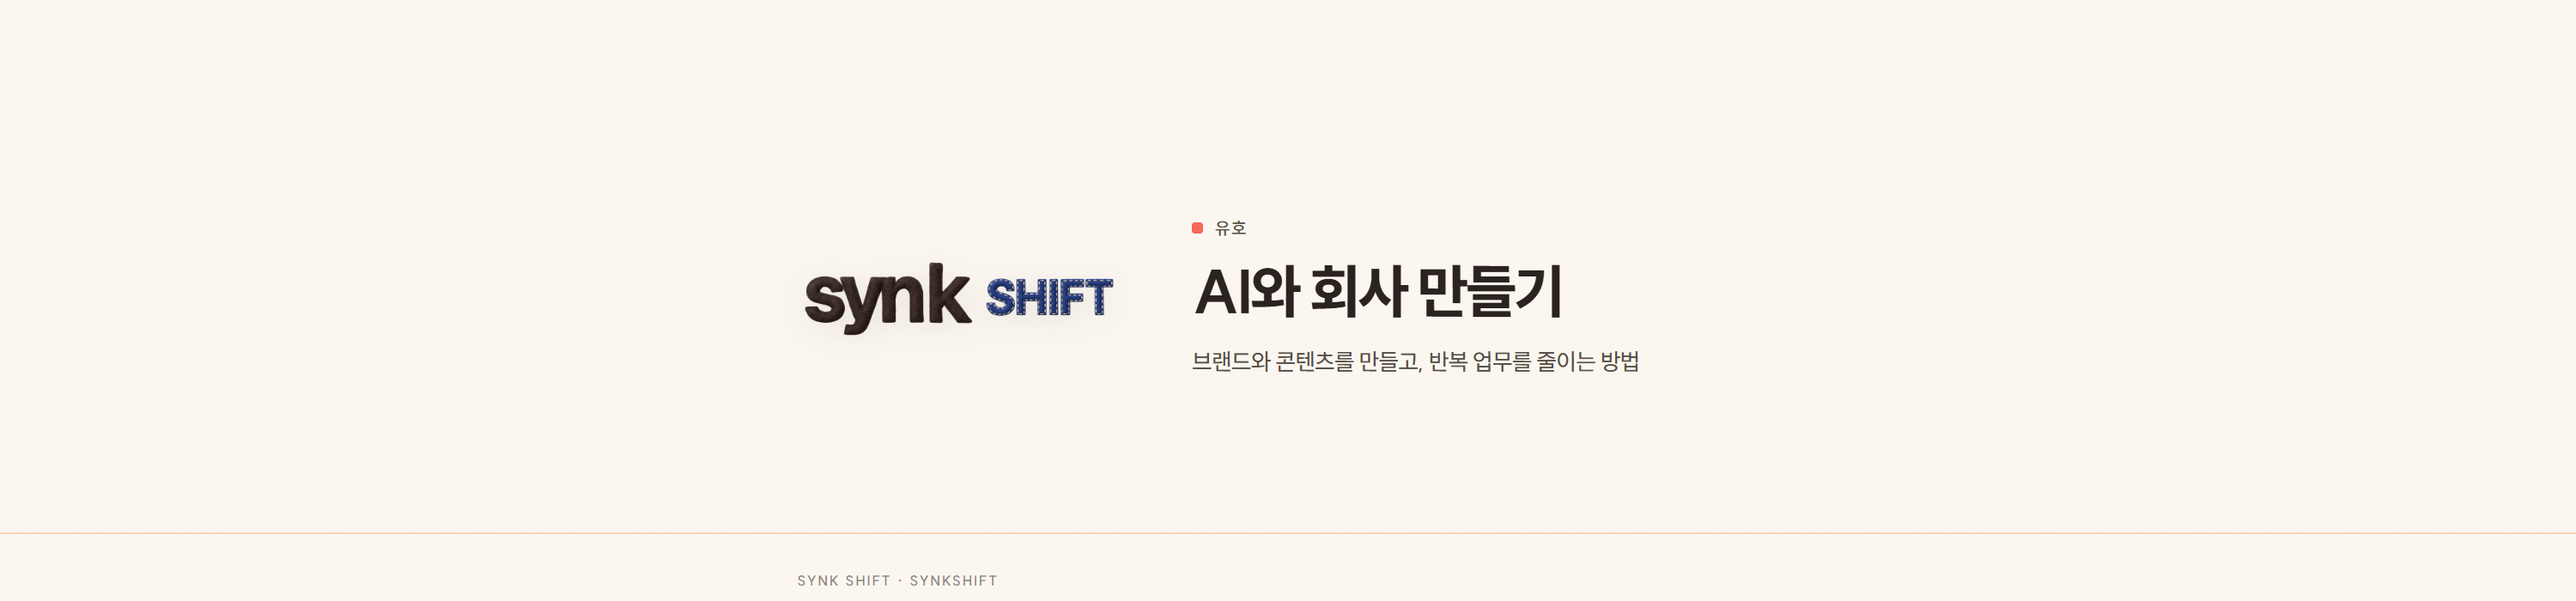
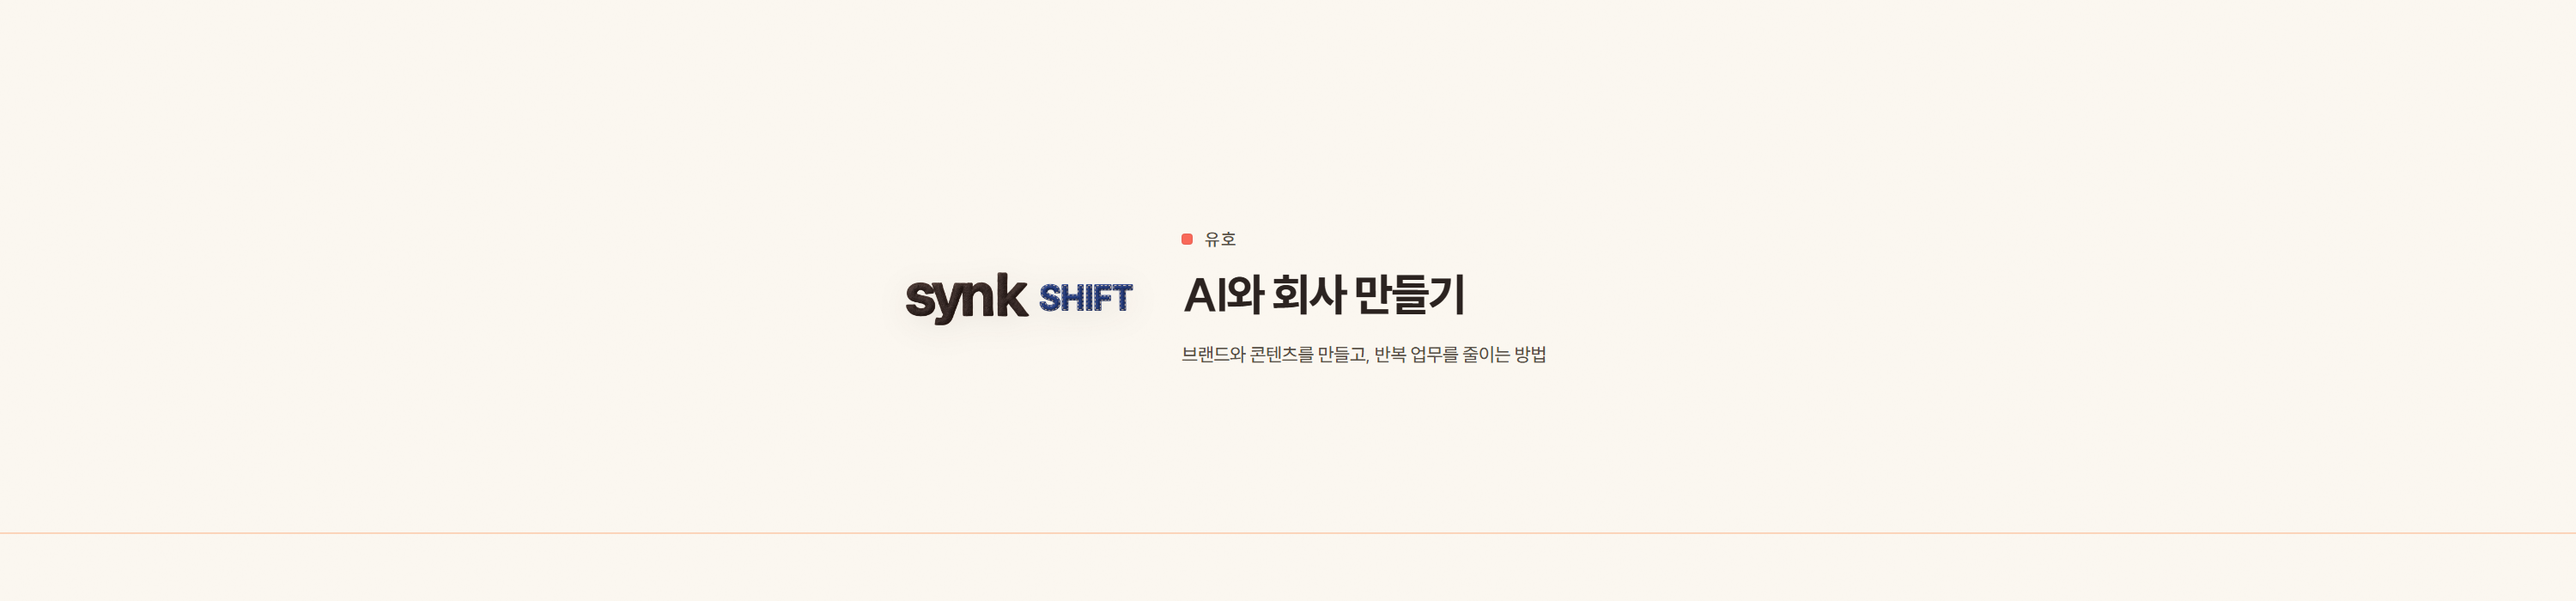
네이버 커버 잘림과 겹침을 고치고 2단 배치 공개 확인

diff --git a/tools/네이버스킨굽기.js b/tools/네이버스킨굽기.js
@@ -46,14 +46,13 @@ ${브랜드폰트.블록()}
   .paper{position:absolute;inset:0;background:#FBF7F0}
   .paper:before{content:"";position:absolute;inset:-10%;opacity:.19;filter:url(#wool)}
   .paper:after{content:"";position:absolute;left:0;right:0;bottom:78px;height:2px;background:#FBCAAB;opacity:.78}
-  .safe{position:relative;width:1180px;height:700px;margin:0 auto;display:grid;grid-template-columns:380px 1fr;gap:80px;align-items:center;padding:0 18px 44px}
-  .logo{width:380px;height:auto;display:block;filter:drop-shadow(0 8px 18px rgba(43,35,32,.09))}
+  .safe{position:relative;width:940px;height:700px;margin:0 auto;display:grid;grid-template-columns:280px 1fr;gap:48px;align-items:center;padding:0 18px 44px}
+  .logo{width:280px;height:auto;display:block;filter:drop-shadow(0 8px 18px rgba(43,35,32,.09))}
   .copy{min-width:0}
   .eyebrow{display:flex;align-items:center;gap:14px;margin:0 0 24px;font-size:20px;font-weight:600;letter-spacing:.08em;color:#575046}
   .signal{width:13px;height:13px;border-radius:4px;background:#F96859;box-shadow:inset 0 0 0 1px rgba(43,35,32,.08)}
-  h1{margin:0;font-size:68px;line-height:1.13;font-weight:800;letter-spacing:-.045em;text-wrap:balance}
-  p{margin:22px 0 0;font-size:27px;line-height:1.55;font-weight:500;letter-spacing:-.025em;color:#575046}
-  .meta{position:absolute;left:18px;bottom:34px;font-size:16px;font-weight:600;letter-spacing:.11em;color:#8D857A}
+  h1{margin:0;font-size:52px;line-height:1.13;font-weight:800;letter-spacing:-.045em;text-wrap:balance}
+  p{margin:22px 0 0;font-size:22px;line-height:1.55;font-weight:500;letter-spacing:-.025em;color:#575046;word-break:keep-all}
 </style></head>
 <body>
 <svg width="0" height="0" aria-hidden="true"><filter id="wool" x="-10%" y="-10%" width="120%" height="120%" color-interpolation-filters="sRGB">
@@ -68,7 +67,6 @@ ${브랜드폰트.블록()}
     <h1>AI와 회사 만들기</h1>
     <p>브랜드와 콘텐츠를 만들고, 반복 업무를 줄이는 방법</p>
   </section>
-  <div class="meta">SYNK SHIFT · SYNKSHIFT</div>
 </main>
 </body></html>`;
 }

diff --git a/docs/마케팅/계정단장_20260911_결과.md b/docs/마케팅/계정단장_20260911_결과.md
@@ -1,6 +1,6 @@
 # SNS 19계정 — 문구·디자인 실제 반영 결과
 
-> 2026-09-11 · 개인 Instagram **@1101yuh 제외**. **13계정에 하나 이상의 변경을 저장·확인했다. 19계정 전체 완료는 아니다.** 특히 Naver 커버 배치는 편집 확인창에서 중단되어 미완료다. 프로필 단장과 새 콘텐츠 발행·자동화 연결은 별개다. 이전 비교용 A안 대신 이 결과와 현재 계정 화면을 먼저 따른다.
+> 2026-09-11 · 개인 Instagram **@1101yuh 제외**. **13계정에 하나 이상의 변경을 저장·확인했다. 19계정 전체 완료는 아니다.** Naver 확인창 문제는 후속 작업에서 해결했고 커버·높이·2단 배치까지 공개 확인했다. 프로필 단장과 새 콘텐츠 발행·자동화 연결은 별개다. 이전 비교용 A안 대신 이 결과와 현재 계정 화면을 먼저 따른다.
 
 ## 표현 기준
 
@@ -13,6 +13,8 @@
 - **커버:** 한 줄 제목, 기존 승인 펠트·여백·서체 유지. SYNK 글자는 무실땀 중립색, 사업명 LAB·SHIFT는 고유색·실땀 유지.
 
 설명형 A와 짧은 이름·용도형 B를 비교해 합쳤고 SHIFT 최종 소개는 독립 사실·리스크 검수를 거쳤다. 비교안의 ‘공부할 때 켜두는 음악’은 기존 사용자 결정과 충돌해 폐기했다. 이는 사용자 만족이나 19계정 완료를 뜻하지 않는다.
+
+후속으로 커밋 `ea57be018`과 [비전 정본](../비전_정본.md)을 읽어 대조했다. 회사 소개의 대표 비전·서브텍스트는 그 원문을 따르며, 여기의 짧은 채널 제목·콘텐츠 안내를 회사 비전의 대체 문구로 사용하지 않는다. 이번 공개 프로필에 네 브랜드 비전 전문을 일괄 추가하지 않았다.
 
 ## 19계정 실제 상태
 
@@ -35,7 +37,7 @@
 | `yuhobuilds-linkedin` · [유호](https://www.linkedin.com/in/yuhobuilds/) | 헤드라인·상세 소개·**AI와 회사 만들기** 배경 저장·공개 시각 확인. 승인 얼굴 확인. 실명 양유호 유지 | 모바일 앱 미확인 |
 | `lab-telegram` · [SYNK LAB](https://t.me/synkmn) | 공개 학생 채널 소개 저장→Channel Info 동일 문구 확인. 몽글 확인 | 개인 연락 계정·메시지·학생 식별 정보는 변경하지 않음 |
 | `synklab-substack` · [발행물](https://synklab.substack.com/) | 이름·첫 소개·SHIFT 섹션 제목/설명·맞춤 홈페이지·Paper/Ink 색상 저장. 공개 이름·섹션 확인 | 별개의 **독자용 프로필 @synklab** 이름·소개는 제출 후 옛값으로 되돌아옴 |
-| `shift-naverblog` · [synkshift](https://blog.naver.com/synkshift) | 관리자 인증 복구. 이름 **유호 · AI와 회사 만들기**·새 소개·나눔스퀘어 19/180%/왼쪽 정렬·Ink 저장 성공 안내 확인. 새 스킨 이미지·Paper 하단색 공개 확인. 타이틀 사용 켜기·이웃커넥트 끄기 적용 후 공개 화면 확인 | **커버 배치 미완료.** 타이틀을 켰지만 기존 높이가 낮아 프로필과 이미지가 여전히 겹침. 2단 배치 변경 확인창에서 제어 연결이 다시 멈춤. 레이아웃·타이틀 높이·공개 화면 최종 검증 필요 |
+| `shift-naverblog` · [synkshift](https://blog.naver.com/synkshift) | 이름 **유호 · AI와 회사 만들기**·새 소개·나눔스퀘어 19/180%/왼쪽 정렬·Ink 저장. Paper 스킨·타이틀 높이 600·중복 제목 표시 끄기·이웃커넥트 끄기·왼쪽 프로필/오른쪽 본문 2단 배치 저장. 커버 안전 폭 940으로 보정해 공개 화면의 로고 잘림·프로필 겹침 해소 확인 | 모바일 앱·기본 메뉴와 위젯 서체 전체 미검수. 기존 `게시판` 분류와 기본 메뉴 유지. 첫 글 없음 |
 | `shift-kakao` · [SYNK SHIFT](https://pf.kakao.com/_kvlrX) | 기존 로그인 재사용·추가 본인 인증 요청 1회. **설정 변경 없음** | 카카오톡 추가 인증 만료. 인증 후 소개·커버·문의 문구 정비 |
 | `shift-tistory` · [유호 블로그](https://yuhobuilds.tistory.com/) | 이름·소개·슬로건·배너·푸터·4분류·어두운 프로필 카드 글자색/줄바꿈 저장·공개 확인. 공식 모바일 미리보기 확인. 승인 얼굴 확인 | 닉네임 ‘유호’ 사용 불가로 **유호 SYNK** 유지. 메뉴 `홈 / 작업 기록 / SYNK` 유지 |
 | `shift-pinterest` · [SYNK SHIFT](https://kr.pinterest.com/synkshift/) | 소개·**회사 일에 쓰는 AI** 커버 저장·공개 시각 확인. 펠트 도장 확인 | 링크는 실제 표시값 `http://youtube.com/@yuhobuilds` 유지. https 변경 성공으로 세지 않음 |
@@ -164,7 +166,6 @@ synk.im
 | 브리핑 TikTok | **SYNK 브리핑**, `회사 일에 쓰는 AI, 직접 써보고 알려드려요. / 소개글 · 이미지 · 영상 · 반복 업무 / youtube.com/@synkbrief`. 해당 계정 로그인 필요 |
 | 유호 Threads | 정확한 계정 확인 후 **유호 · AI와 회사 만들기**, `AI와 함께 회사를 만들고 있어요. / 오늘 해본 일과 막힌 문제, 고친 방법을 나눠요.` |
 | 브리핑 Threads | 정확한 계정 확인 후 **SYNK 브리핑**, `회사 일에 쓰는 AI, 직접 써보고 알려드려요. / 따라 해볼 방법을 짧게 나눕니다.` |
-| Naver | 이름·소개·본문 서체·타이틀 사용·이웃커넥트 끄기는 저장됨. 현재 ‘레이아웃을 변경하시겠습니까?’ 확인창 처리 후 2단 배치·헤더 높이를 조정해 이미지와 본문이 겹치지 않게 마무리. 이름/소개를 다시 입력하거나 재로그인을 먼저 요구하지 않음 |
 | Kakao | **SYNK SHIFT** 유지. 소개 `회사 일에 쓰는 AI, 직접 써본 방법과 자료를 나눠요.`. 추가 인증 후 자료·문의 안내·커버 실제 설정과 대조 |
 | Substack 독자 프로필 | 이름 **SYNK · 한국어와 AI**, `한국어를 배우고 가르치는 이야기와 AI로 내 일을 만드는 방법을 나눠요. LAB의 한국어 이야기와 유호의 AI 활용 이야기를 골라 읽어요.`. 발행물은 저장됐지만 이 프로필은 저장 불발 |
 
@@ -179,7 +180,7 @@ Instagram 외부 링크는 실제 웹 화면에 모바일 편집으로 안내된
 | LinkedIn | [yuhobuilds_링크드인.png](../SHIFT/배너/yuhobuilds_링크드인.png), 1584×396. 얼굴이 글자를 가리지 않는 위치 공개 확인 |
 | LAB YouTube | [synklab_배너.png](../SHIFT/배너/synklab_배너.png), 2560×1440. 승인본 업로드. SHA 앞자리 `4ea28ce16718` |
[3 lines of base64/hex data omitted]
 | LAB 프로필 | [synklab_프로필.png](../SHIFT/프로필/synklab_프로필.png), 1080×1080, SHA 앞자리 `5367016e3b95` |
 | 브리핑·SHIFT 프로필 | [synkbrief_펠트_프로필.png](../SHIFT/프로필/synkbrief_펠트_프로필.png), 1080×1080, SHA 앞자리 `e6d77cfca3ed` |
 
@@ -188,6 +189,8 @@ Instagram 외부 링크는 실제 웹 화면에 모바일 편집으로 안내된
 [배너 생성기](../../tools/배너굽기.js), [Naver 생성기](../../tools/네이버스킨굽기.js)의 문구를 수정했다. 교체 전 백업은 `docs/SHIFT/배너/문구갱신_이전_20260911_014430`, `synklab_커버.backup_20260911_023151_306.png`, Naver `timestamp백업/20260911_021152_264`에 보존했다.
 
 이번 확인은 Chrome 데스크톱의 실제 프로필·공개 화면·업로드 크롭, Tistory 공식 모바일 미리보기까지다. 모든 모바일 앱·TV·로그아웃 방문자 화면을 전수 검증하지 않았다. 새 콘텐츠·핀·영상·메시지·광고·결제·보안 설정·핸들은 변경하지 않았다. Facebook이 커버 변경 기록을 자동 생성하는 경우와 새 콘텐츠 발행은 구분한다.
+
+Naver 후속 시각 검수: 기존 타이틀 높이 50에서 이미지와 프로필이 겹쳤고, 폭 1180의 이미지 내용은 실제 약 1054px 창에서 왼쪽 로고가 잘렸다. 공식 리모콘에서 높이를 600으로 저장하고, 생성기의 안전 폭을 940으로 줄여 다시 업로드했다. 하단의 중복 `SYNK SHIFT · SYNKSHIFT` 표기도 제거했다. 2단 배치의 적용 확인창까지 처리한 뒤 공개 화면에서 로고·제목·보조문 전체와 프로필 옆 본문을 확인했다. 폭 보정 전 이미지는 `docs/SHIFT/네이버_스타일/synkshift_네이버_스킨.backup_20260911_0323.png`에 보존했다. 외부 브라우저의 기본 가로 스크롤 자체를 없앴거나 모바일 스킨까지 바꾼 것은 아니다.
 
 로컬 검증: 두 생성기 `node --check` 통과, `node --test tests/지면폰트.test.js` **7/7 통과**. 02:49 KST 상태 조회에서 HEAD `971910911ff4`였으며 운영 원문 해시가 위 기준과 같음을 재확인했다. 저장소에는 타 작업 변경이 함께 있어 전체 작업본 동일성·통합 배포 완료는 주장하지 않는다.
 
